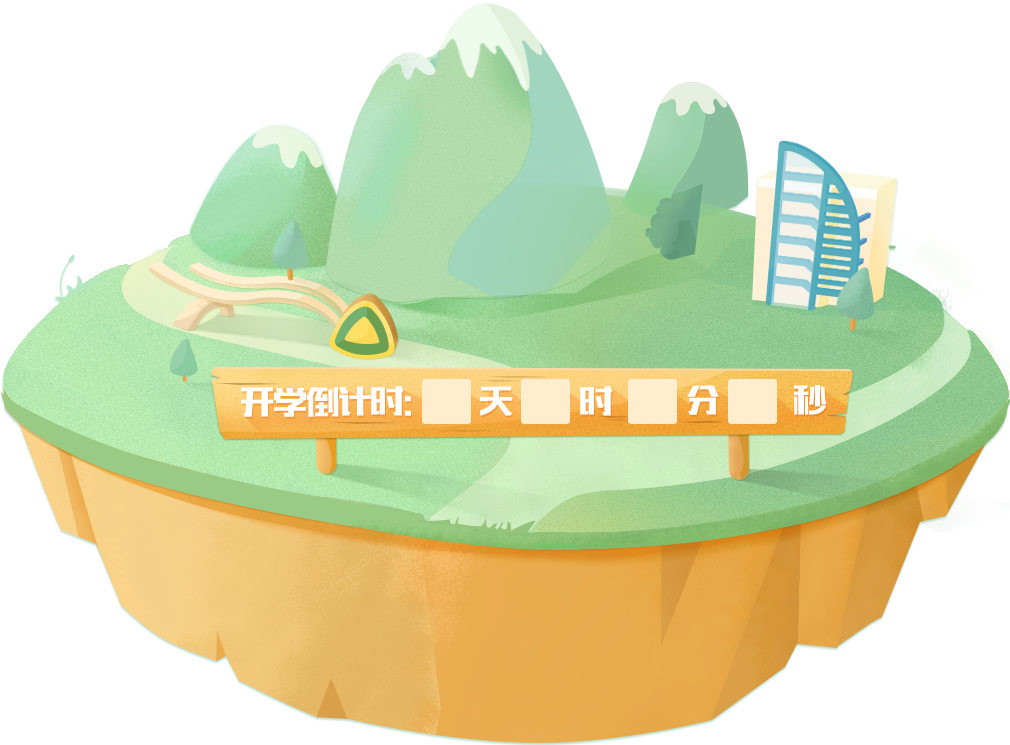
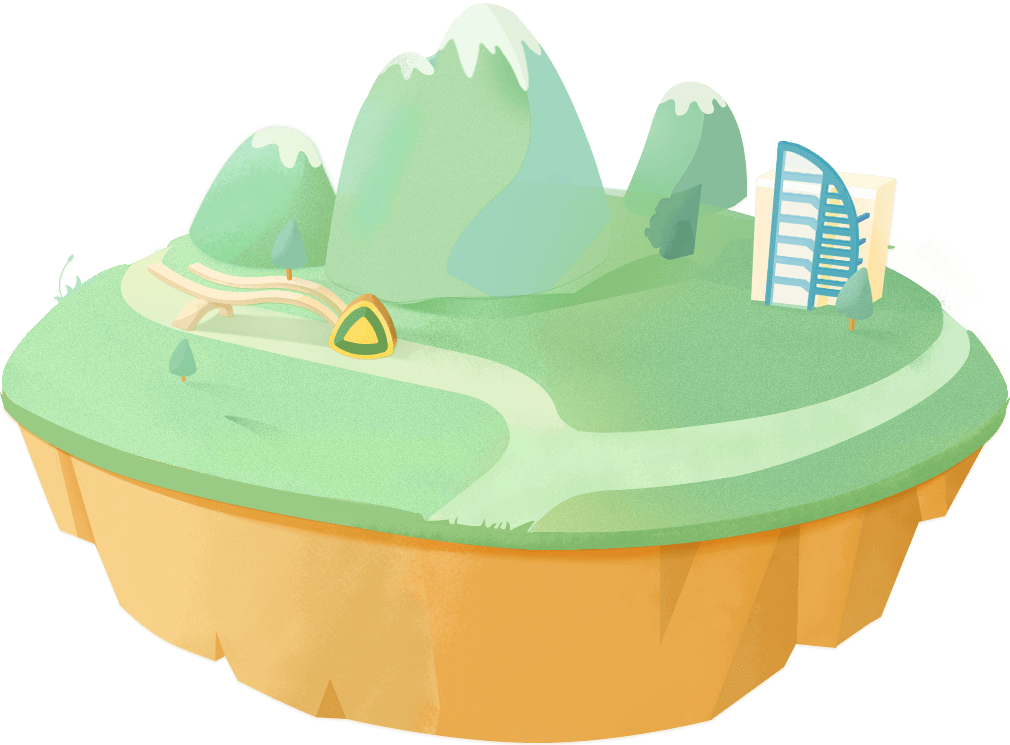
学长帮帮忙

diff --git a/js/xzbbm.js b/js/xzbbm.js
@@ -181,26 +181,7 @@
                 return function () {
                     box.style.display = 'block';
                     asker.innerHTML =  '提问者：' + data[n]['name'];
-                    // ajaxPost({
-                    //     'type'   : 'POST',
-                    //     'url'    : 'http://hongyan.cqupt.edu.cn/XZBBM/index.php/api/reply',
-                    //     'postStr': data[n]['Id'] + ' content pic',
-                    //     'success': function (newData) {
-                    //         var s = '';
-                    //         var nowTime = new Date();
-                    //         for (var j = 0; j < newData.length; j++) {
-                    //             var timeStr = newData[j]['create_time'].split(' ');
-                    //             var timeSec = new Date(timeStr[0]);
-                    //             if (nowTime.getDate() !== timeSec.getDate()) {
-                    //                 timeStr = timeStr[0].split('-')[1] + '月' + timeStr[0].split('-')[2] + '日';
-                    //             } else {
-                    //                 timeStr = timeStr[1].split(':')[0] + '时' + timeStr[1].split(':')[1] + '分';
-                    //             }
-                    //             s += '<div class="answer-item"><div class="answer-user">' + newData[j]['name'] + ':' + '</div>' + '<p class="answer-content">' + newData[j]['content'] + '</p>' + '<div class="answer-time">' + timeStr + '</div></div>';
-                    //         }
-                    //         answerBox.innerHTML = s;
-                    //     }
-                    // })
+                    
                     ajax({
                         'type'   : 'GET',
                         'url'    : 'http://hongyan.cqupt.edu.cn/XZBBM/index.php/api/question/' + data[n]['Id'],
@@ -243,56 +224,56 @@
     }
 
 
-    var xz = $('.people-item'),
-        xzBox = $('.xz-box')[0],
-        xzInfo = $('.xz-info')[0],
-        xzClose = $('.xz-close')[0];
+    // var xz = $('.people-item'),
+    //     xzBox = $('.xz-box')[0],
+    //     xzInfo = $('.xz-info')[0],
+    //     xzClose = $('.xz-close')[0];
 
-    addEvent(xzClose, 'click', function () {
-        xzBox.style.display = 'none';
-    })
+    // addEvent(xzClose, 'click', function () {
+    //     xzBox.style.display = 'none';
+    // })
 
-    ajax({
-        'type'   : 'GET',
-        'url'    : 'http://hongyan.cqupt.edu.cn/XZBBM/index.php/api/userRandom/5',
-        'success': function (data) {
-            var peopleContent = $('.content-people')[0];
-            var s = '';
-            for (var i = 0; i < 5; i++) {
-                var imgStr = '',
-                    nameStr = '',
-                    collegeStr = '';
-                // data[i]['photo']
-                if (data[i]['photo'] === null) {
-                    imgStr += '<div class="people-avatar"><img src="img/gonglue/mr.jpg" alt=""></div>'
-                } else {
-                    imgStr += '<div class="people-avatar"><img src="' + data[i]['photo'] +'" alt=""></div>'
-                }
-                nameStr += '<div class="pelple-name">' + data[i]['name'] + '</div>';
-                collegeStr = '<div class="people-academy">' + data[i]['college'] + '</div>'
-                s += '<div class="people-item people-fir">' + imgStr + nameStr + collegeStr + '</div>';
-                console.log(data[i]['photo']);
-            }
+    // ajax({
+    //     'type'   : 'GET',
+    //     'url'    : 'http://hongyan.cqupt.edu.cn/XZBBM/index.php/api/userRandom/5',
+    //     'success': function (data) {
+    //         var peopleContent = $('.content-people')[0];
+    //         var s = '';
+    //         for (var i = 0; i < 5; i++) {
+    //             var imgStr = '',
+    //                 nameStr = '',
+    //                 collegeStr = '';
+    //             // data[i]['photo']
+    //             if (data[i]['photo'] === null) {
+    //                 imgStr += '<div class="people-avatar"><img src="img/gonglue/mr.jpg" alt=""></div>'
+    //             } else {
+    //                 imgStr += '<div class="people-avatar"><img src="' + data[i]['photo'] +'" alt=""></div>'
+    //             }
+    //             nameStr += '<div class="pelple-name">' + data[i]['name'] + '</div>';
+    //             collegeStr = '<div class="people-academy">' + data[i]['college'] + '</div>'
+    //             s += '<div class="people-item people-fir">' + imgStr + nameStr + collegeStr + '</div>';
+    //             console.log(data[i]['photo']);
+    //         }
 
-            peopleContent.innerHTML = s;
+    //         peopleContent.innerHTML = s;
 
-            for (var j = 0; j < 5; j++) {
-                addEvent(xz[j], 'click', (function (n) {
-                    return function () {
-                        var str = '';
-                        var imgStr = '';
-                        if (data[n]['photo'] === null) {
-                            imgStr = '<img src="img/gonglue/mr.jpg" alt="">';
-                        } else {
-                            imgStr = '<img src="' + data[n]['photo'] + '" alt="">';
-                        }
-                        xzBox.style.display = 'block';
-                        str = '<div class="xz-info-avatar">' + imgStr + '</div><div class="xz-name">' + data[n]['name'] + '</div><p class="xz-intr">' + data[n]['biography'] + '</p>'
-                        xzInfo.innerHTML = str;
-                    }
-                })(j))
-            }
-        }
-    })
+    //         for (var j = 0; j < 5; j++) {
+    //             addEvent(xz[j], 'click', (function (n) {
+    //                 return function () {
+    //                     var str = '';
+    //                     var imgStr = '';
+    //                     if (data[n]['photo'] === null) {
+    //                         imgStr = '<img src="img/gonglue/mr.jpg" alt="">';
+    //                     } else {
+    //                         imgStr = '<img src="' + data[n]['photo'] + '" alt="">';
+    //                     }
+    //                     xzBox.style.display = 'block';
+    //                     str = '<div class="xz-info-avatar">' + imgStr + '</div><div class="xz-name">' + data[n]['name'] + '</div><p class="xz-intr">' + data[n]['biography'] + '</p>'
+    //                     xzInfo.innerHTML = str;
+    //                 }
+    //             })(j))
+    //         }
+    //     }
+    // })
 
 })();

diff --git a/fengcai.html b/fengcai.html
@@ -49,6 +49,7 @@
                     <img src="./img/banner.png" id="title">
                     <img src="./img/gotocqupt.png" id="gotocqupt">
                     <img src="./img/leaves.png" id="leaves">
+                    <img src="./img/countDown.png" id="countDown">
                     <div id="timeBar">
                         <div class="d tb"><img src="./img/numbers.png" id="d1" class="n1"><img src="./img/numbers.png" id="d2" class="n2"></div>
                         <div class="h tb"><img src="./img/numbers.png" id="h1" class="n1"><img src="./img/numbers.png" id="h2" class="n2"></div>
@@ -103,12 +104,12 @@
 		                		<div class="slide-con clearfix">
 			                		<div id="organization" class="z-s-w">
 				                		<div class="left-slt">
-				                			<div class="slt slt6 select" style="padding:8px 27px 0;">团委直属部门</div>
-				                			<div class="slt slt6" style="padding: 10px 27px 0; line-height: 23px">校学生会</div>
-				                			<div class="slt slt6" style="padding: 10px 28px 0; line-height: 18px;">科技联合会</div>
-				                			<div class="slt slt6" style="padding: 6px 28px 0; line-height: 15px;">社团联合会</div>
-				                			<div class="slt slt6" style="padding: 10px 28px 0; line-height: 18px;">青年志愿者协会</div>
-				                			<div class="slt slt6" style="padding: 6px 28px 0; line-height: 17px;">大学生艺术团</div>
+				                			<div class="slt slt6 select">团委直属部门</div>
+				                			<div class="slt slt6">校学生会</div>
+				                			<div class="slt slt6">科技联合会</div>
+				                			<div class="slt slt6">社团联合会</div>
+				                			<div class="slt slt6">青年志愿者协会</div>
+				                			<div class="slt slt6">大学生艺术团</div>
 				                		</div>
 				                		<div class="right-con-wrp clearfix">
 					                		<div class="right-con">

diff --git a/xzbbm.html b/xzbbm.html
@@ -30,20 +30,20 @@
                 </div>
         </div>
     </div>
-    <div class="xz-box">
+    <!-- <div class="xz-box">
         <div class="xz-wrap">
             <div class="xz-close">
                 <img src="img/close.png" alt="">
             </div>
             <div class="xz-info">
-                <!-- <div class="xz-info-avatar">
+                <div class="xz-info-avatar">
                     <img src="" alt="">
                 </div>
                 <div class="xz-name">王华</div>
-                <p class="xz-intr">这里是学长简介,这里是学长简介,这里是学长简介,这里是学长简介,这里是学长简介,这里是学长简介,这里是学长简介,这里是学长简介,这里是学长简介,这里是学长简介,这里是学长简介,这里是学长简介,</p> -->
+                <p class="xz-intr">这里是学长简介,这里是学长简介,这里是学长简介,这里是学长简介,这里是学长简介,这里是学长简介,这里是学长简介,这里是学长简介,这里是学长简介,这里是学长简介,这里是学长简介,这里是学长简介,</p>
             </div>
         </div>
-    </div>
+    </div> -->
     <div class="header-wrp">
         <div id="header">
             <div class="main clearfix">
@@ -167,7 +167,7 @@
                         </div>
                     </div>
                 </div>
-                <div class="content-people"></div>
+                <!-- <div class="content-people"></div> -->
                 <div class="learn-more">
                     <p class="learn-more-para">
                         <i></i>

diff --git a/css/xzbbm.css b/css/xzbbm.css
@@ -190,7 +190,7 @@ a {
 .content-wrap {
     position: relative;
     
-    height: 890px;
+    height: 839px;
     width: 960px;
     padding: 0px 21px 0px 21px;
     margin: -71px auto 0px;
@@ -268,7 +268,7 @@ a {
     position: relative;
     z-index: 7;
 
-    height: 331px;
+    height: 590px;
     width: 914px;
     margin: 0 auto;
     border: 1px solid #fff5c4;
@@ -292,7 +292,7 @@ a {
 }
 .ques-item {
     float: left;
-    height: 331px;
+    height: 590px;
     width: 914px;
 
     overflow-y: auto;
@@ -394,7 +394,7 @@ a {
 .learn-more {
     height: 70px;
     width: 914px;
-    margin: 0 auto;
+    margin: 32px auto 0px;
     border: 1px solid #fff5c4;
     border-radius: 10px;
 

diff --git a/index.html b/index.html
@@ -47,6 +47,7 @@
                     <img src="./img/banner.png" id="title">
                     <img src="./img/gotocqupt.png" id="gotocqupt">
                     <img src="./img/leaves.png" id="leaves">
+                    <img src="./img/countDown.png" id="countDown">
                     <div id="timeBar">
                         <div class="d tb"><img src="./img/numbers.png" id="d1" class="n1"><img src="./img/numbers.png" id="d2" class="n2"></div>
                         <div class="h tb"><img src="./img/numbers.png" id="h1" class="n1"><img src="./img/numbers.png" id="h2" class="n2"></div>

diff --git a/css/fengcai.css b/css/fengcai.css
@@ -148,15 +148,17 @@
 	overflow: hidden;
 }
 #student-content .content .left-slt .slt {
-	width: 70px;
-	height: 117px;
+	width: 100%;
+	height: 115px;
 	border-bottom: 2px solid #fcc06e;
 	background: url('../img/fengcai/1px.png') repeat center center;
+	writing-mode: tb-rl;
+	text-align: center;
+	line-height: 70px;
 	font-size: 14px;
 	color: #fff;
-	line-height: 17px;
+	letter-spacing: 1px;
 	cursor: pointer;
-	box-sizing: border-box;
 }
 #student-content .content .left-slt .slt.select {
 	background: url('../img/fengcai/1px-blue.png') repeat center center;

diff --git a/css/main_page.css b/css/main_page.css
@@ -273,8 +273,6 @@ body {
 }
 #banner-wrp .banner .isLand-con #islandImg {
 	position: absolute;
-	left: 1px;
-	top: -2px;
 	z-index: 4;
 	width: 1010px;
 	height: 745px;
